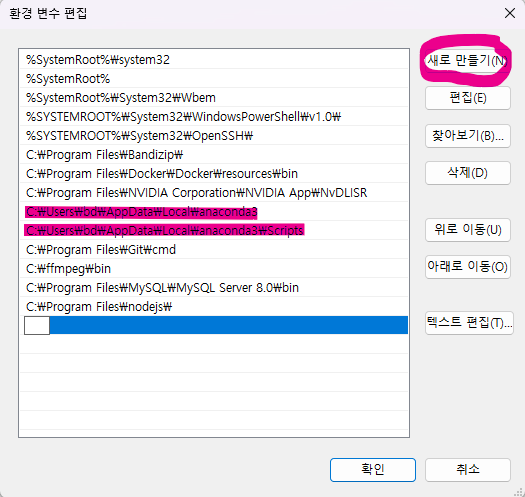
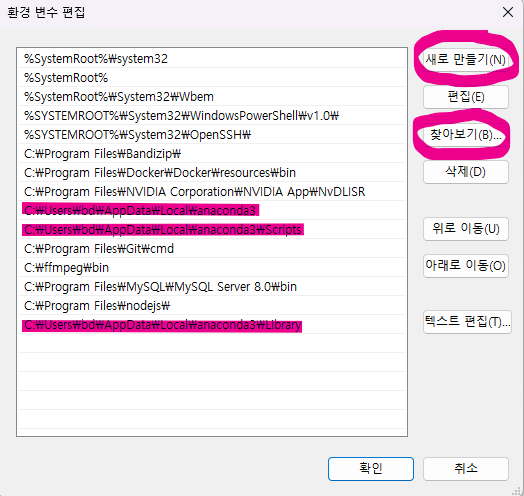
miniconda 설치가이드 환경변수 등록 부분 수정

diff --git a/Lesson/how_to_install/miniconda.md b/Lesson/how_to_install/miniconda.md
@@ -42,9 +42,9 @@
 
 ![](./miniconda7.png)
 
-### 4. 새로만들기 클릭 후 두 개의 경로 추가
+### 4. 새로만들기 또는 찾아보기 클릭 후 세 개의 경로 추가
 
-- anaconda3과 그 하위에 있는 Scripts 디렉토리 등록
+- `anaconda3`과 그 하위에 있는 `Scripts`, `Library` 디렉토리 등록
 - 사용자 이름 및 conda 설치 경로에 따라 경로가 달라지니 주의하여 등록
 
 ![](./miniconda8.png)
